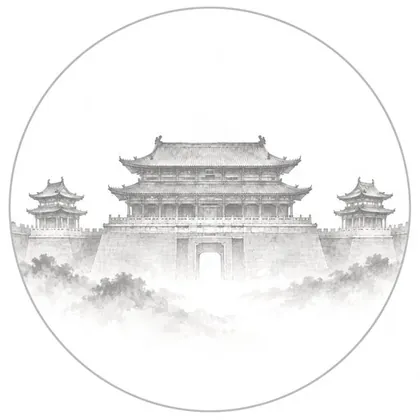
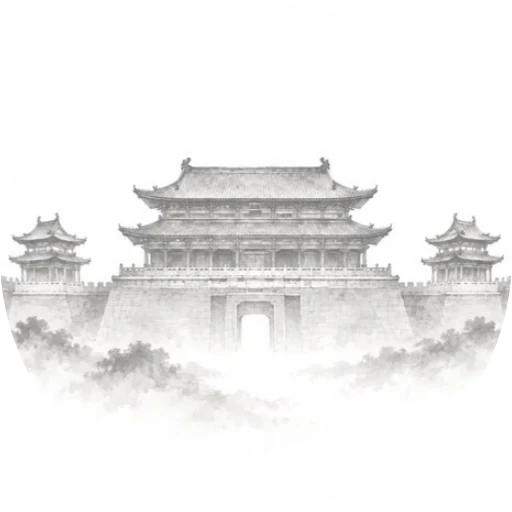
修统计口径不实（path-stats / balance-sim）与朝代图 PNG+WebP 重复
prot/path-stats.js
- 展开上限可调：--cap N（0 = 不限）+ 时间预算 --budget 秒（默认 1800，与旧「跑满 40 万展开」等口径）。
- 触上限/超预算时，最短路径、结局覆盖、未走到事件一律标注「下界·未穷尽」，并给出尚有
  多少状态未展开；不再把「测不到」读成「不存在」。
- 覆盖统计按「章节事件 / 随机际遇 / 危机注入」三类分列未走到项；际遇类多为概率闸门、
  条件或配额未命中，非死内容。
- 修正注释里「rng 固定 0.99 → maybeRandom 恒不触发」的错误口径：主 rng 常量，但
  _stream('event') 会从主 rng 派生独立事件流并按序取值，际遇闸门并非恒不过（实测
  R-1/R-2/C-1 已进入状态图）。

prot/balance-sim.js
- 结局分布表补「多少条策略可达成」：≤2 条标 ⚠ 策略依赖，0 条提示先加大 --games。
  合并表只回答「路线是否可达」，不再与「普遍可达」混读（U.12 策略栅栏的读数侧）。

h5
- 朝代图：assets/arch 源图已由 *.jpg 换为 512×512 带圆形 alpha 遮罩的 PNG，
  重编码为 512×512 WebP（q88，alpha 保留，PSNR≈40dB）写入 src/assets/lua/，
  select.ts 改引用 .webp；删除与源图重复的 5 张 PNG 副本。
  dist 产物 679KB → 97KB（-85.7%），显示尺寸与质量均不低于旧的 420px WebP。
- tools/build-assets.py：arch 五行源图 arch\*.jpg → arch\*.png，420→512、q80→q88
  （新源图带 alpha，旧的 420 无 alpha 版在圆盘上会露硬边）。

diff --git a/prot/path-stats.js b/prot/path-stats.js
@@ -1,9 +1,27 @@
 /* 路径统计 v2：状态图 BFS（最短）+ DAG 记忆化 DFS（最长简单路径）
  * 状态 = (章, 事件, 阶段, 属性, 偏离, Flag, 史评, 功业)；修正事件随机性固定为不触发。
+ *
+ * v2.1.5 统计口径诚实化（GDD 附录 U.16）：本工具是**有界搜索**，不是穷尽证明。
+ *   · 展开上限可调：--cap N（0 = 不限，慎用）；另有时间预算 --budget 秒（默认 1800，
+ *     即与旧口径「跑满 40 万展开」等效，仅作超时保险）。
+ *   · 触上限/超预算时，所有派生结论（结局覆盖、从未走到的事件、最短路径）一律标注
+ *     「下界·未穷尽」，并给出未展开队列规模——**不得把「测不到」读成「不存在」**
+ *     （与 balance-sim 的 U.12「策略集即测量栅栏」同源错误）。
+ *   · 展开范围本身有限：回合阶段只 playCard(0) 走关键卡，行动卡不入状态图；
+ *     际遇（R-*）受 randomChance / randomMax / cond 与章内牌堆非重复抽取限制，危机注入
+ *     （C-*）在其确定性路径下可进入。注意本工具主 rng 虽为常量 0.99，但 `_stream('event')`
+ *     会从主 rng 派生独立事件流并按序取值，故际遇闸门**并非恒不过**（实测 R-2 等已进入）。
+ *     故覆盖统计按「章节事件 / 随机际遇 / 危机注入」三类分别列出未走到项，不混判。
  */
 const D = require('./game-data.js');
 const E = require('./engine.js');
 const rng = () => 0.99;
+function arg(name, def) {
+  const i = process.argv.indexOf('--' + name);
+  return i >= 0 && process.argv[i + 1] ? process.argv[i + 1] : def;
+}
+const CAP = parseInt(arg('cap', '400000'), 10) === 0 ? Infinity : Math.max(1000, parseInt(arg('cap', '400000'), 10));
+const BUDGET = Math.max(1, parseInt(arg('budget', '1800'), 10)) * 1000; // 默认 30min：与旧口径（跑满 --cap 40 万）一致，仅作超时保险
 
 function clone(g) {
   const n = new E.Game(D, 'normal', rng);
@@ -130,11 +148,13 @@ function bfs2() {
   const queue = [{ node: first, d: 0, c: first.clicks, path: [] }];
   let endMin = null; const perEnding = new Map();
   let expanded = 0;
+  let truncated = false, reason = '';
   const t0 = Date.now();
   while (queue.length) {
+    if (expanded >= CAP) { truncated = true; reason = `展开上限 ${CAP}`; break; }
+    if (Date.now() - t0 > BUDGET) { truncated = true; reason = `时间预算 ${BUDGET / 1000}s`; break; }
     const cur = queue.shift(); expanded++;
     if (expanded % 20000 === 0) console.log(`  …已展开 ${expanded}，队列 ${queue.length}，去重状态 ${best.size}，${Date.now() - t0}ms`);
-    if (expanded > 400000) { console.log('  达到展开上限 40 万，提前截止'); break; }
     if (cur.node.kind === 'ending') {
       const e = cur.node.ending;
       const k = e.id + (e.variant ? '/' + e.variant : '');
@@ -158,12 +178,14 @@ function bfs2() {
       queue.push({ node: nxt, d: nd, c: nc, path: cur.path.concat([[cur.node.evId, o.t]]) });
     }
   }
-  return { endMin, perEnding, expanded, states: best.size };
+  return { endMin, perEnding, expanded, states: best.size, truncated, reason, pending: queue.length };
 }
 
 console.log('—— 最短路径（BFS，单位成本=1 决策）——');
 const r = bfs2();
-console.log(`展开决策点 ${r.expanded} 个，去重状态 ${r.states} 个`);
+const SCOPE = r.truncated ? `下界·未穷尽（${r.reason} 处截止，尚有 ${r.pending} 个状态未展开）` : '穷尽';
+console.log(`展开决策点 ${r.expanded} 个，去重状态 ${r.states} 个 ｜ 搜索范围：${SCOPE}`);
+if (r.truncated) console.log(`!! 本次为**下界**：以下结局覆盖与「从未走到的事件」都可能只是展开未及——需 --cap 0 或加大 --cap 复测后才可作结论。`);
 if (r.endMin) {
   console.log(`全局最短：${r.endMin.d} 决策 / ${r.endMin.c} 点击 → ${r.endMin.ending}「${r.endMin.name}」`);
   console.log('路径：' + r.endMin.path.map(p => p[0] + '「' + p[1].slice(0, 12) + '」').join(' → '));
@@ -174,12 +196,28 @@ console.log('\n各结局最短到达：');
   console.log(`  ${e.ending}「${e.name}」：${e.d} 决策 / ${e.c} 点击`);
 });
 
-console.log('\n—— 覆盖与死内容（基于 BFS，达展开上限时为下界） ——');
-console.log('结局覆盖：' + [...endingsSeen].sort().join('、'));
+console.log(`\n—— 覆盖与死内容（BFS，口径：${SCOPE}） ——`);
+console.log('结局覆盖' + (r.truncated ? '（下界）' : '') + '：' + [...endingsSeen].sort().join('、'));
 console.log('节点异变触发：' + (mutationNotes.size ? [...mutationNotes].join('；') : '（仅章节固定事件）'));
 const allEv = [];
 D.CHAPTERS.forEach(c => c.events.forEach(e => allEv.push(e.id)));
-console.log('从未走到的事件：' + (allEv.filter(id => !eventsSeen.has(id)).join('、') || '（全部覆盖）'));
+const randomIds = (D.RANDOM_EVENTS || []).map(e => e.id);
+const crisisIds = [];
+if (D.CRISIS_EVENTS) {
+  if (Array.isArray(D.CRISIS_EVENTS.plots)) D.CRISIS_EVENTS.plots.forEach(p => crisisIds.push(p.id));
+  if (D.CRISIS_EVENTS.death && D.CRISIS_EVENTS.death.id) crisisIds.push(D.CRISIS_EVENTS.death.id);
+  if (D.CRISIS_EVENTS.qingsuan && D.CRISIS_EVENTS.qingsuan.id) crisisIds.push(D.CRISIS_EVENTS.qingsuan.id);
+}
+console.log(`覆盖口径：${r.truncated ? '下界·未穷尽' : '穷尽'}（回合阶段只走关键卡，行动卡不入展开）`);
+[['章节事件', allEv], ['随机际遇', randomIds], ['危机注入', crisisIds]].forEach(([label, ids]) => {
+  const miss = ids.filter(id => !eventsSeen.has(id));
+  const why = miss.length === 0 ? '' : (r.truncated
+    ? '  ← 下界·可能只是展开未及，勿判作死内容（先用 --cap 0 或加大 --cap 复测）'
+    : '  ← 穷尽口径下仍未进入：际遇类多为概率闸门/条件/配额未命中，亦非死内容');
+  console.log(`${label}：${ids.length} 条，未走到 ${miss.length} 条 → ${miss.join('、') || '（全部覆盖）'}${why}`);
+});
+console.log('另注：BACKLASH（逆天反噬，偏离≥71 每章一次）与 C-DEATH/C-QS 属确定性注入，本工具会走到；');
+console.log('      行动卡收益与「多买一回合」的路径不在本表内（回合阶段只 playCard(0)）。');
 
 console.log('\n—— 最长路径（无重复状态的简单路径，预算 120s） ——');
 const DFS_BUDGET = 120000;

diff --git a/prot/balance-sim.js b/prot/balance-sim.js
@@ -534,8 +534,20 @@ const merged = {};
 stratNames.forEach(sn => Object.keys(stats[sn].endings).forEach(e => { merged[e] = (merged[e] || 0) + stats[sn].endings[e]; }));
 Object.keys(ROUTES).forEach(r => {
   const n = ROUTES[r].reduce((a, e) => a + (merged[e] || 0), 0);
-  log(`${r}（${ROUTES[r].join('/')}）：${n} 局`);
+  /* v2.1.5：路线「多少局」不等于「多少条策略能走通」。仅由 1–2 条策略达成的路线属
+   * **策略依赖**（须刻意规划才到，换玩家未必复现），不能读作"这条线普遍存在"——
+   * 这是 U.12「策略集即测量栅栏」在读数侧的对应物：合并表会把 1/13 条策略的成果
+   * 读成"路线可达"。可达性与普遍性分开报。 */
+  const who = stratNames.filter(sn => ROUTES[r].some(e => stats[sn].endings[e]));
+  const dep = who.length === 0
+    ? `  ⚠ 本批样本无策略达成（0/${stratNames.length} 条）——先加大 --games 复测再下结论`
+    : who.length <= 2
+      ? `  ⚠ 策略依赖：仅 ${who.join('/')} 达成（${who.length}/${stratNames.length} 条）`
+      : `  （${who.length}/${stratNames.length} 条策略可达成）`;
+  log(`${r}（${ROUTES[r].join('/')}）：${n} 局${dep}`);
 });
+log('注：本表是 13 条策略的**合并**读数，只回答"路线是否可达"；标 ⚠ 的路线需刻意规划（策略依赖），');
+log('    不能读作"随便玩就能到"。普遍性请对照下方「各策略结局明细」。');
 
 log('\n—— 准则 3：单一属性策略通关率（压力测试，非验收门槛 · GDD 附录 D #25 / 附录 O.1）——');
 log('说明：GDD v1.6.1 起本项定位为「极端压力测试」，不设 PASS/FAIL 门槛——「每步只最大化单一属性」本就不是真实玩家行为。');

diff --git a/h5/src/ui/select.ts b/h5/src/ui/select.ts
@@ -22,11 +22,11 @@ import { renderTeaser } from './teaser';
 import { createWheel, type WheelHandle } from './wheel';
 
 import wheelRing from '../assets/lua/wheel-ring.webp';
-import archQin from '../assets/lua/arch-qin.png';
-import archHan from '../assets/lua/arch-han.png';
-import archTang from '../assets/lua/arch-tang.png';
-import archSong from '../assets/lua/arch-song.png';
-import archMing from '../assets/lua/arch-ming.png';
+import archQin from '../assets/lua/arch-qin.webp';
+import archHan from '../assets/lua/arch-han.webp';
+import archTang from '../assets/lua/arch-tang.webp';
+import archSong from '../assets/lua/arch-song.webp';
+import archMing from '../assets/lua/arch-ming.webp';
 import scenPlate from '../assets/lua/scen-plate.webp';
 import vortexImg from '../assets/lua/vortex-gold.webp';
 import coverLisi from '../assets/cover/lisi.webp';

diff --git a/h5/tools/build-assets.py b/h5/tools/build-assets.py
@@ -145,11 +145,15 @@ ASSETS = [
     ("lua", r"repo:ui\title-calligraphy.png",   "lua/title-calligraphy.webp", None, 900, 92),
     ("lua", r"repo:ui\bg-select.jpg",           "lua/bg-select.webp",        1920, None, 74),
     ("lua", r"repo:ui\parts\wheel_ring.png",    "lua/wheel-ring.webp",       880,  None, 86),
-    ("lua", r"repo:arch\qin.jpg",               "lua/arch-qin.webp",         420,  None, 80),
-    ("lua", r"repo:arch\han.jpg",               "lua/arch-han.webp",         420,  None, 80),
-    ("lua", r"repo:arch\tang.jpg",              "lua/arch-tang.webp",        420,  None, 80),
-    ("lua", r"repo:arch\song.jpg",              "lua/arch-song.webp",        420,  None, 80),
-    ("lua", r"repo:arch\ming.jpg",              "lua/arch-ming.webp",        420,  None, 80),
+    # 朝代图（2026-10-20）：源图由 arch\*.jpg 换为带圆形 alpha 遮罩的 512 PNG，
+    # 尺寸 420→512、质量 80→88。旧 420 无 alpha 的 WebP 在圆盘上会露出硬边，
+    # 且与 src/assets/lua 下同名 PNG 构成重复（同一素材两份，其中一份还被 import）。
+    # 注：assets/arch 下新源图当前文件名为 *_副本.png，此处按无后缀名引用。
+    ("lua", r"repo:arch\qin.png",               "lua/arch-qin.webp",         512,  None, 88),
+    ("lua", r"repo:arch\han.png",               "lua/arch-han.webp",         512,  None, 88),
+    ("lua", r"repo:arch\tang.png",              "lua/arch-tang.webp",        512,  None, 88),
+    ("lua", r"repo:arch\song.png",              "lua/arch-song.webp",        512,  None, 88),
+    ("lua", r"repo:arch\ming.png",              "lua/arch-ming.webp",        512,  None, 88),
     ("lua", r"repo:ui\parts\card_frame.png",    "lua/card-frame.webp",       None, None, 90),
     ("lua", r"repo:ui\parts\scen_plate.png",    "lua/scen-plate.webp",       None, None, 92),
     ("lua", r"repo:ui\parts\diff_on.png",       "lua/diff-on.webp",          560,  None, 88),
